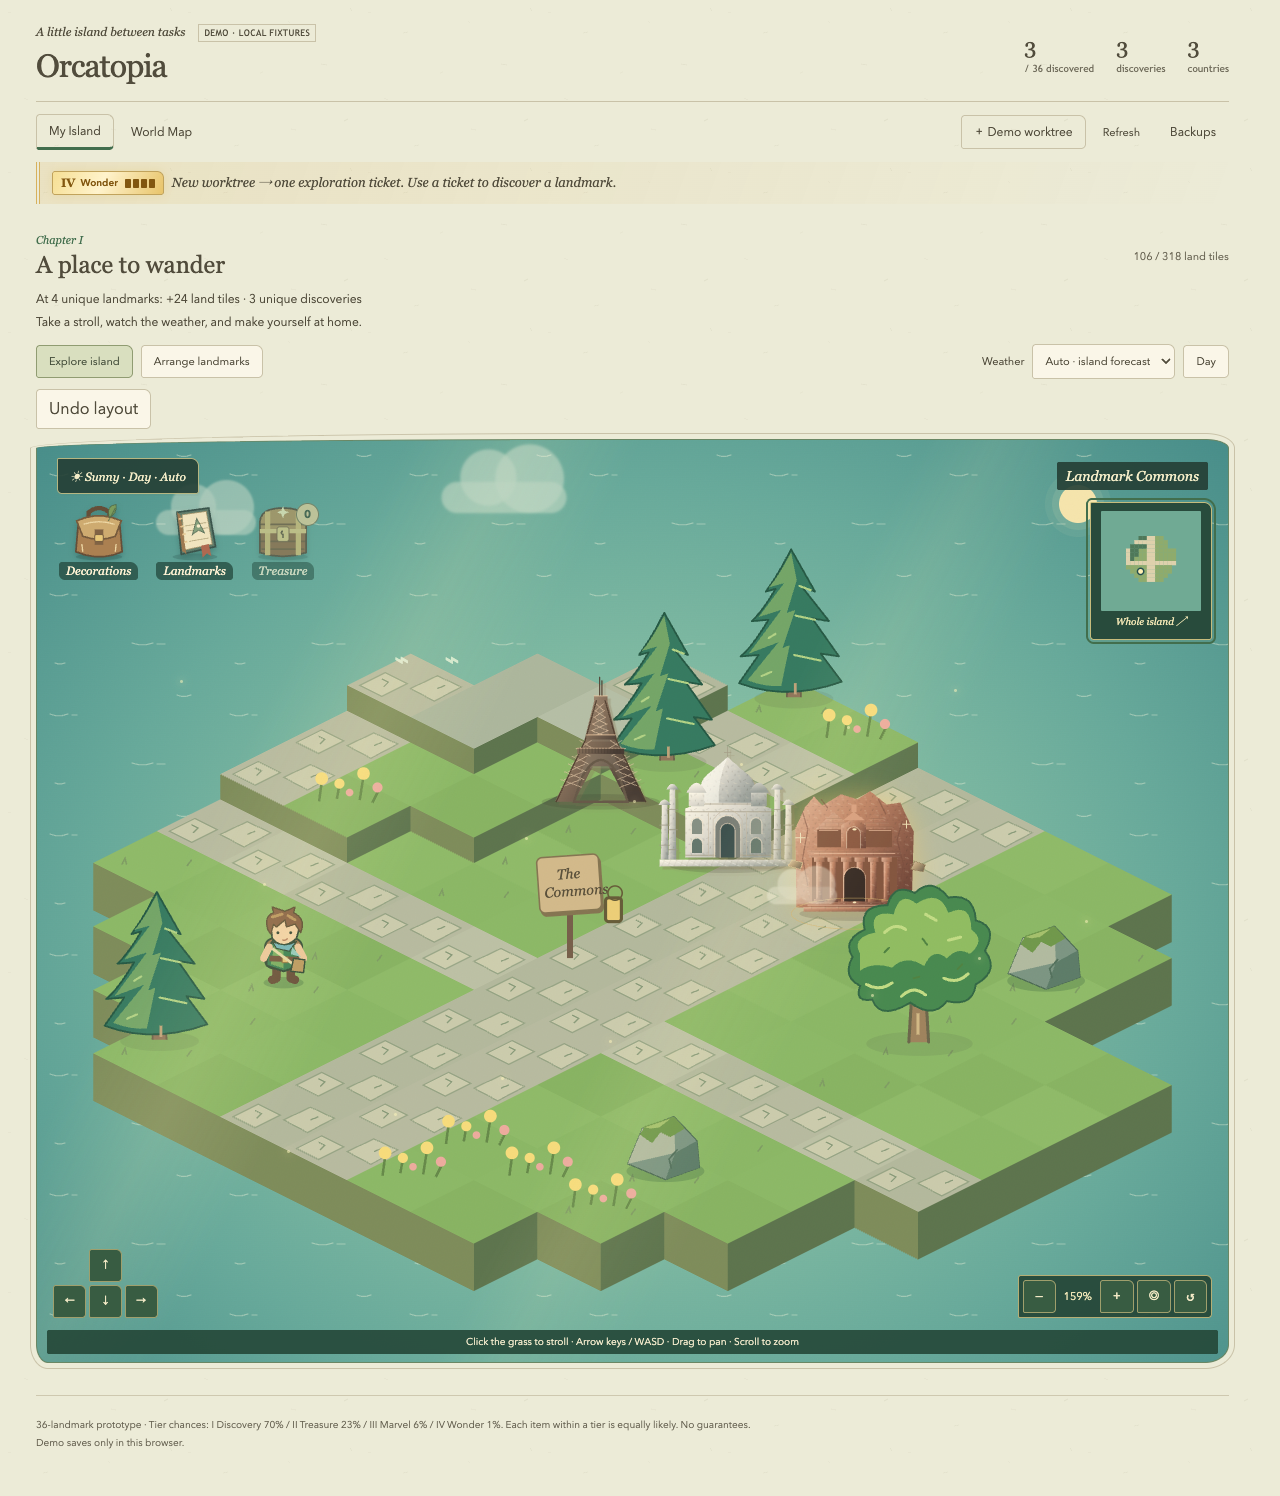
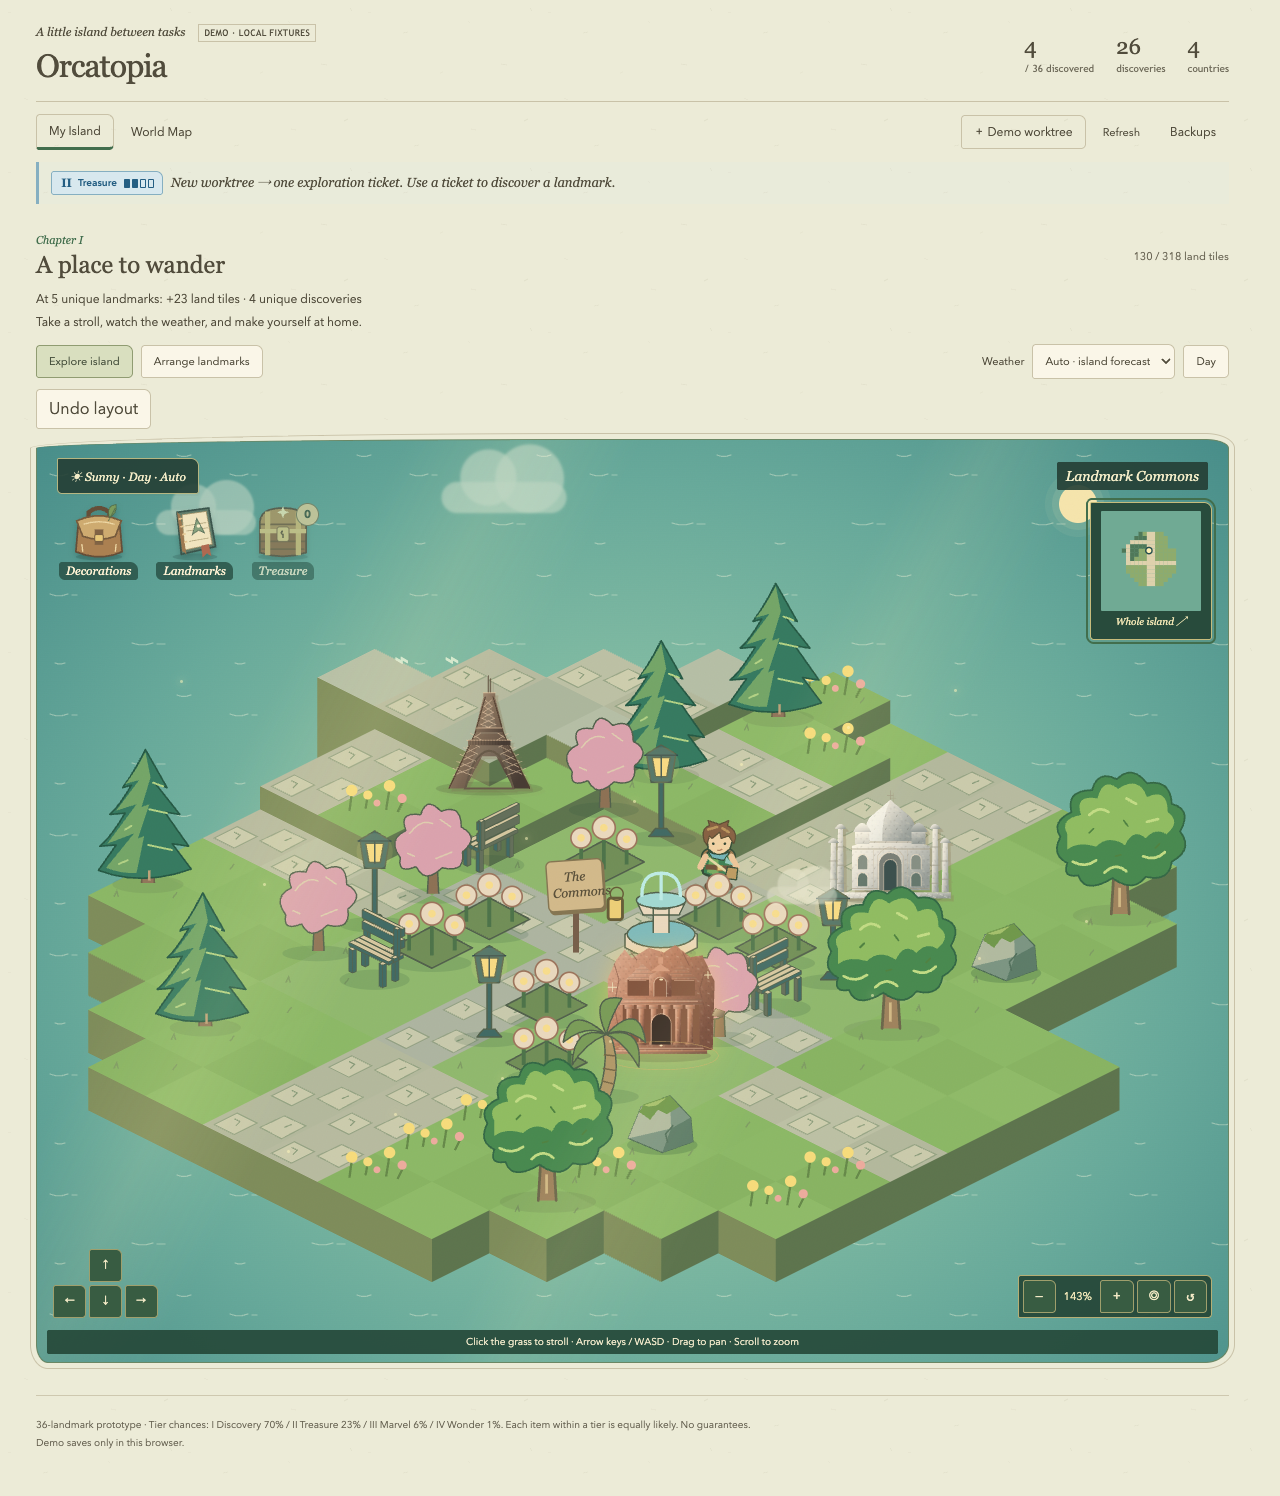
Arrange the Orcatopia showcase as a landmark garden

Changed region(s): [[0.0625, 0.369, 0.9375, 0.861], [0.0312, 0.0922, 0.1562, 0.1537], [0.875, 0.3382, 0.9062, 0.3997]]

diff --git a/plugins/landmark-island/tests/showcase.spec.ts b/plugins/landmark-island/tests/showcase.spec.ts
@@ -1,16 +1,77 @@
 import { test, expect } from '@playwright/test';
-import { empty } from '../src/game';
+import { empty, validate } from '../src/game';
+import { decorationById, DUPLICATE_MATERIALS } from '../src/decorations';
+import { at } from '../src/world';
 
 test('Orcatopia showcase keeps legacy storage and shows an English fixture island', async ({
   page,
 }) => {
-  const save = empty();
-  for (const [index, landmark] of ['eiffel', 'taj', 'petra'].entries()) {
-    const workspaceId = `showcase-${index}`;
-    save.tickets.push({ workspaceId, at: '2026-11-07' });
-    save.receipts.push({ workspaceId, landmark, at: '2026-11-07' });
-    save.placements.push({ landmark, cell: index * 2 });
+  const fixture = empty();
+  const acquire = (landmark: string) => {
+    const workspaceId = `showcase-${fixture.tickets.length}`;
+    fixture.tickets.push({ workspaceId, at: '2026-11-07' });
+    fixture.receipts.push({ workspaceId, landmark, at: '2026-11-07' });
+  };
+  for (const landmark of ['eiffel', 'taj', 'petra', 'fuji']) acquire(landmark);
+  fixture.placements = [
+    { landmark: 'eiffel', cell: at(8, 10)! },
+    { landmark: 'taj', cell: at(13, 8)! },
+    { landmark: 'petra', cell: at(14, 13)! },
+  ];
+  // A walkable cross connects the three landmark gardens and fountain court.
+  for (let row = 9; row <= 14; row++)
+    for (let col = 9; col <= 14; col++)
+      fixture.floors.push({
+        cell: at(col, row)!,
+        decoration: col === 11 || row === 11 ? 'stonepath' : 'grass',
+      });
+  const garden: [string, number, number, number?][] = [
+    ['fuji-gift', 9, 9],
+    ['eiffel-gift', 10, 9],
+    ['taj-gift', 14, 9],
+    ['taj-gift', 10, 10],
+    ['taj-gift', 12, 10],
+    ['taj-gift', 13, 10],
+    ['eiffel-gift', 14, 10],
+    ['eiffel-special', 9, 11, 1],
+    ['taj-special', 12, 11],
+    ['eiffel-special', 14, 11, 3],
+    ['fuji-gift', 9, 12],
+    ['taj-gift', 10, 12],
+    ['taj-gift', 13, 12],
+    ['fuji-gift', 14, 12],
+    ['eiffel-gift', 9, 13],
+    ['taj-gift', 10, 13],
+    ['taj-gift', 12, 13],
+    ['fuji-gift', 9, 14],
+    ['eiffel-special', 10, 14],
+    ['eiffel-gift', 12, 14],
+    ['taj-gift', 13, 14],
+    ['petra-gift', 14, 14],
+  ];
+  const used = new Map<string, number>();
+  for (const [decoration, col, row, rotation] of garden) {
+    const count = (used.get(decoration) ?? 0) + 1;
+    used.set(decoration, count);
+    if (count > (decorationById(decoration)!.gift ? 1 : 0))
+      fixture.crafts.push({
+        id: `garden-${fixture.crafts.length}`,
+        decoration,
+      });
+    fixture.decorations.push({
+      decoration,
+      cell: at(col, row)!,
+      ...(rotation ? { rotation } : {}),
+    });
   }
+  // Fixture duplicates fund the exact craft ledger; no free material override.
+  const cost = fixture.crafts.reduce(
+    (sum, craft) => sum + decorationById(craft.decoration)!.cost,
+    0,
+  );
+  for (let i = 0; i < Math.ceil(cost / DUPLICATE_MATERIALS); i++)
+    acquire('eiffel');
+  const save = validate(fixture);
   await page.addInitScript((save) => {
     localStorage.setItem('landmark-island-demo-v1', JSON.stringify(save));
   }, save);
@@ -22,7 +83,9 @@ test('Orcatopia showcase keeps legacy storage and shows an English fixture islan
     page.getByRole('heading', { name: 'Orcatopia', exact: true }),
   ).toBeVisible();
   await expect(page.getByText('DEMO · LOCAL FIXTURES')).toBeVisible();
-  await expect(page.locator('.cell.occupied')).toHaveCount(3);
+  await expect(page.locator('.cell.occupied')).toHaveCount(
+    save.placements.length + save.decorations.length,
+  );
   await page.getByRole('button', { name: 'Show whole island' }).click();
   await page.screenshot({
     path: 'test-results/landmark-island/orcatopia-island-demo.png',

diff --git a/docs/screenshots/README.ko.md b/docs/screenshots/README.ko.md
@@ -35,7 +35,7 @@ pnpm nx run git-logs:preview
 
 ## Orcatopia
 
-[orcatopia-island.png](orcatopia-island.png)은 에펠탑·타지마할·페트라를 배치한 영문 브라우저 fixture입니다. 전체 페이지 캡처로 DEMO 표시를 유지합니다. 실제 사용자 저장이나 Orca 호스트 캡처가 아닙니다.
+[orcatopia-island.png](orcatopia-island.png)은 에펠탑·타지마할·페트라 주변을 벚나무, 꽃밭, 석재 산책로, 대리석 분수, 카페 벤치와 가로등으로 꾸민 영문 정원 fixture입니다. 기존 게임 장식만 사용하며 보유 수량과 제작 기록을 검증한 배치입니다. 전체 페이지 캡처로 DEMO 표시를 유지합니다. 실제 사용자 저장이나 Orca 호스트 캡처가 아닙니다.
 
 다음 명령으로 다시 생성하고 복사합니다.
 

diff --git a/docs/screenshots/README.md b/docs/screenshots/README.md
@@ -35,7 +35,7 @@ See the [repository README](../../README.md) and [development guide](../developm
 
 ## Orcatopia
 
-[orcatopia-island.png](orcatopia-island.png) shows the English browser fixture with Eiffel Tower, Taj Mahal and Petra. The full-page capture retains the DEMO label. It contains no real user save and is not a native Orca capture.
+[orcatopia-island.png](orcatopia-island.png) shows an English garden fixture: Eiffel Tower, Taj Mahal and Petra surrounded by cherry trees, flower beds, stone paths, a marble fountain, café benches and lanterns. All decorations use existing game assets and a validated ownership/crafting ledger. The full-page capture retains the DEMO label. It contains no real user save and is not a native Orca capture.
 
 Regenerate and copy it with:
 
